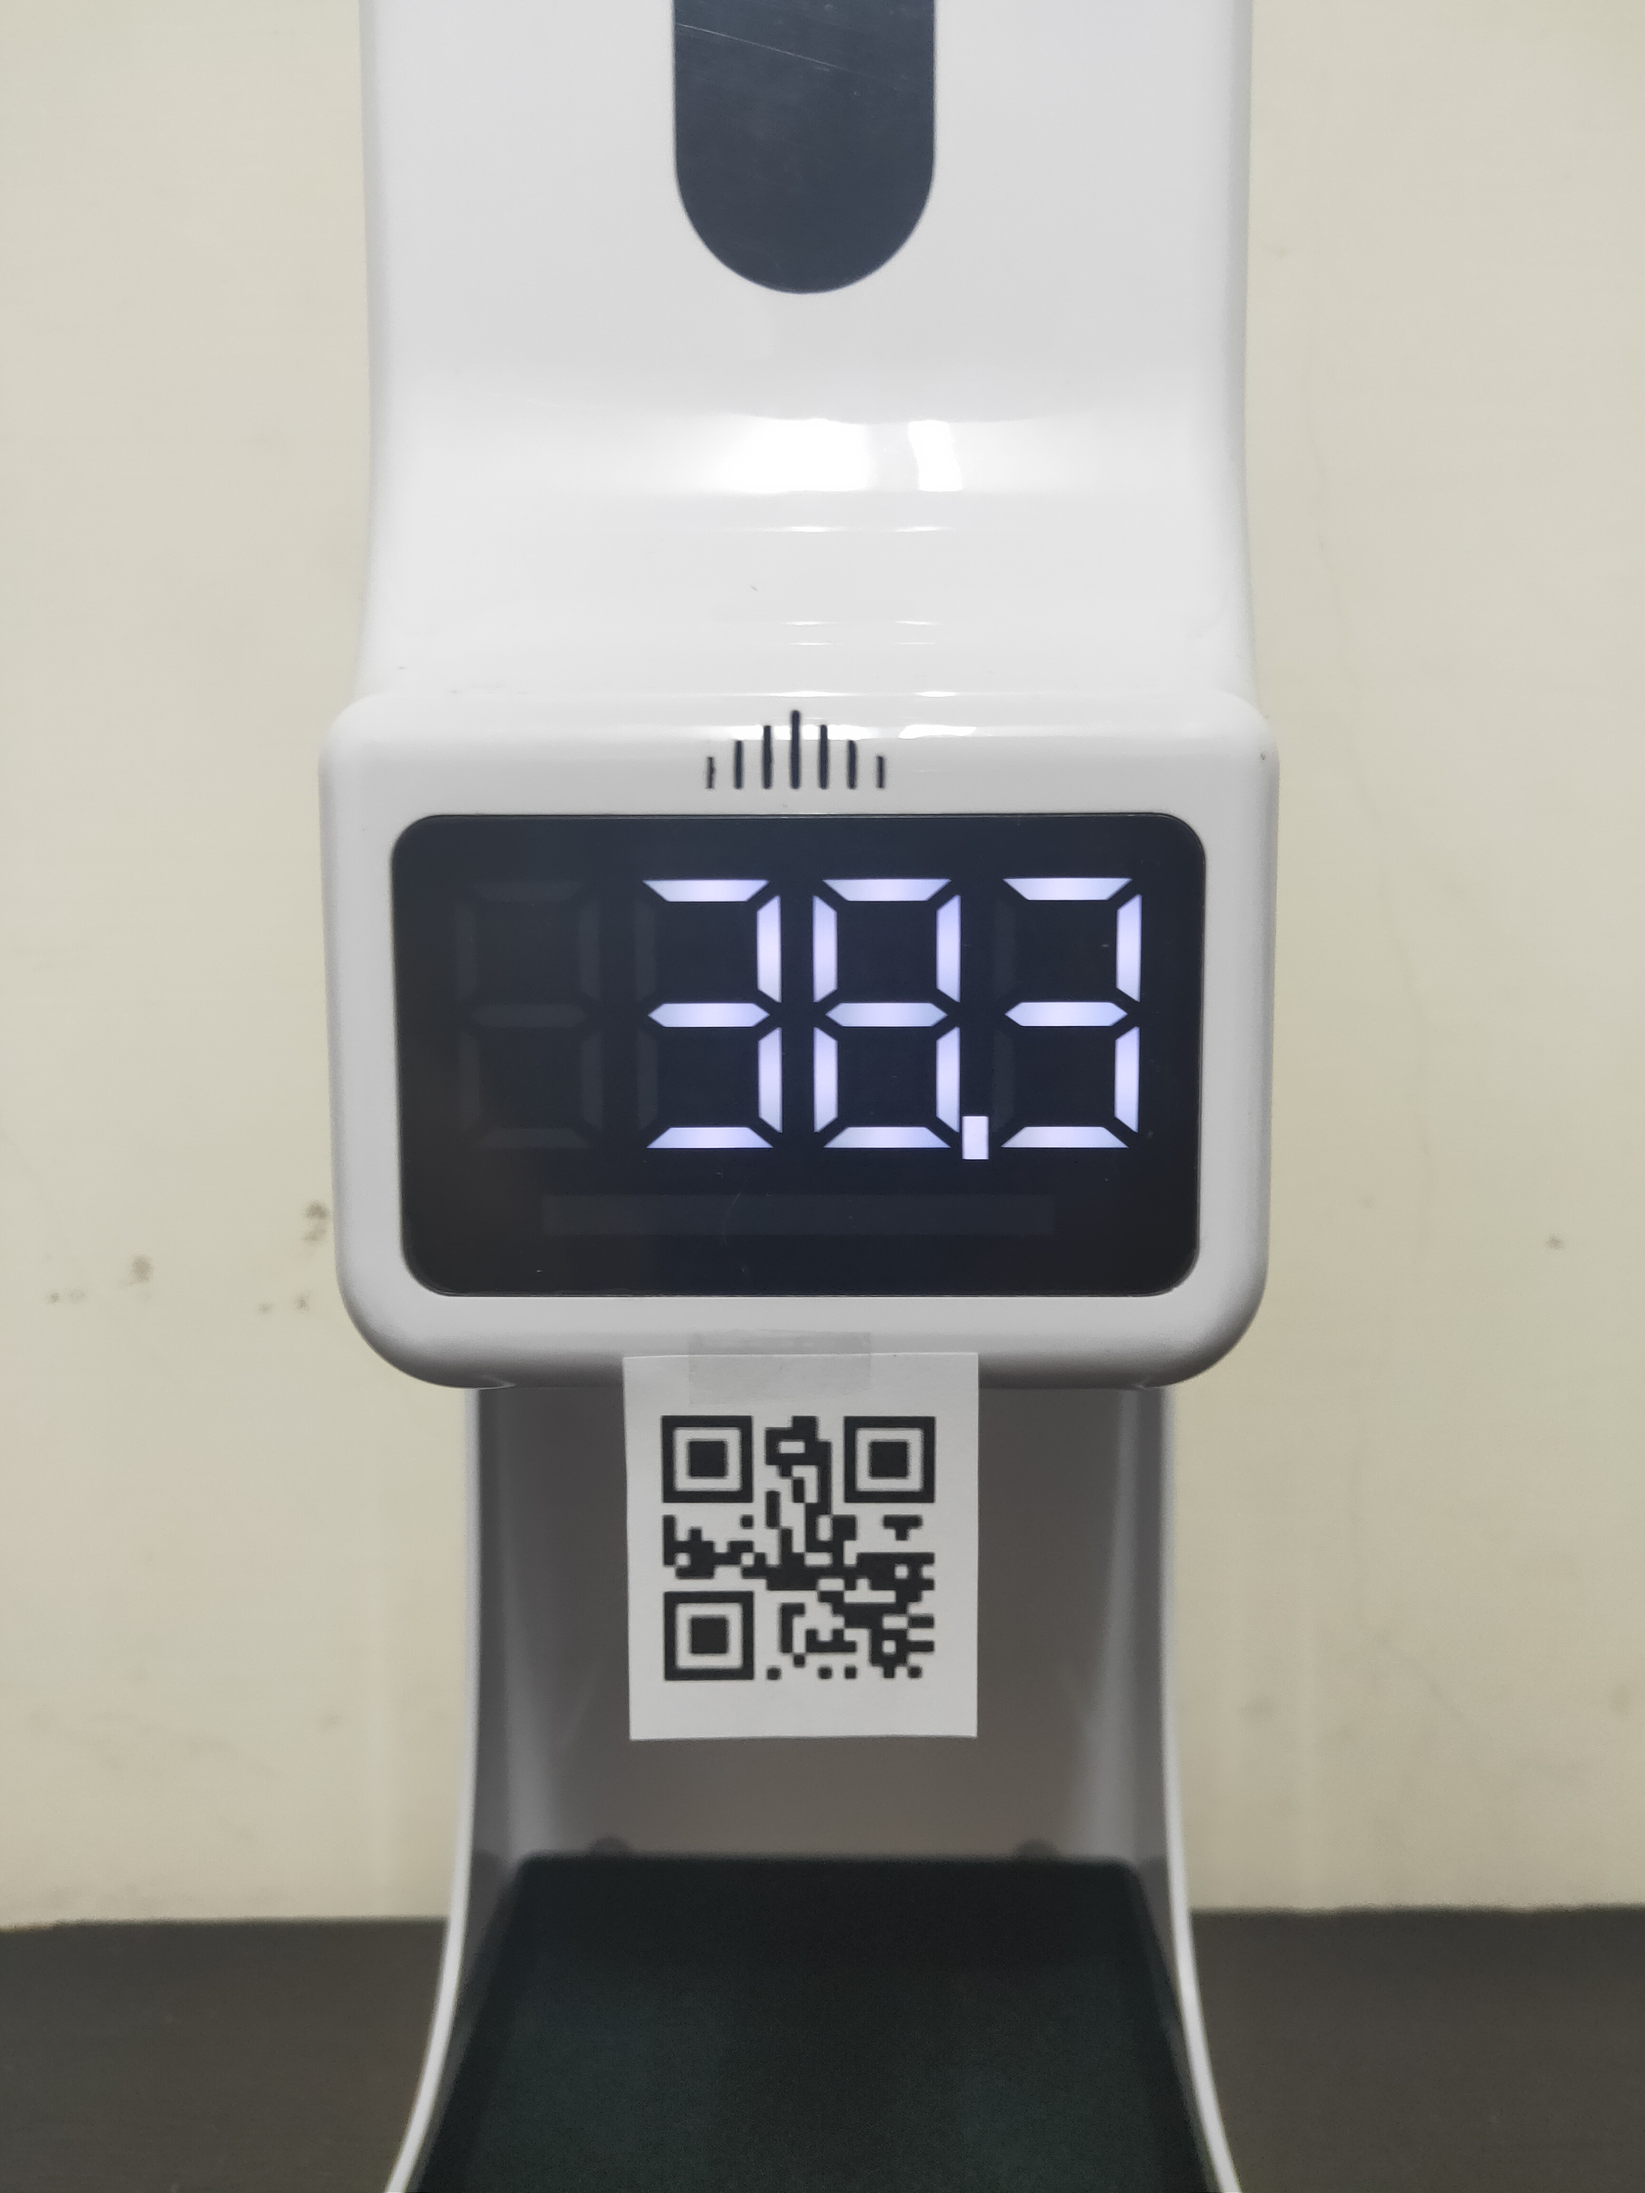
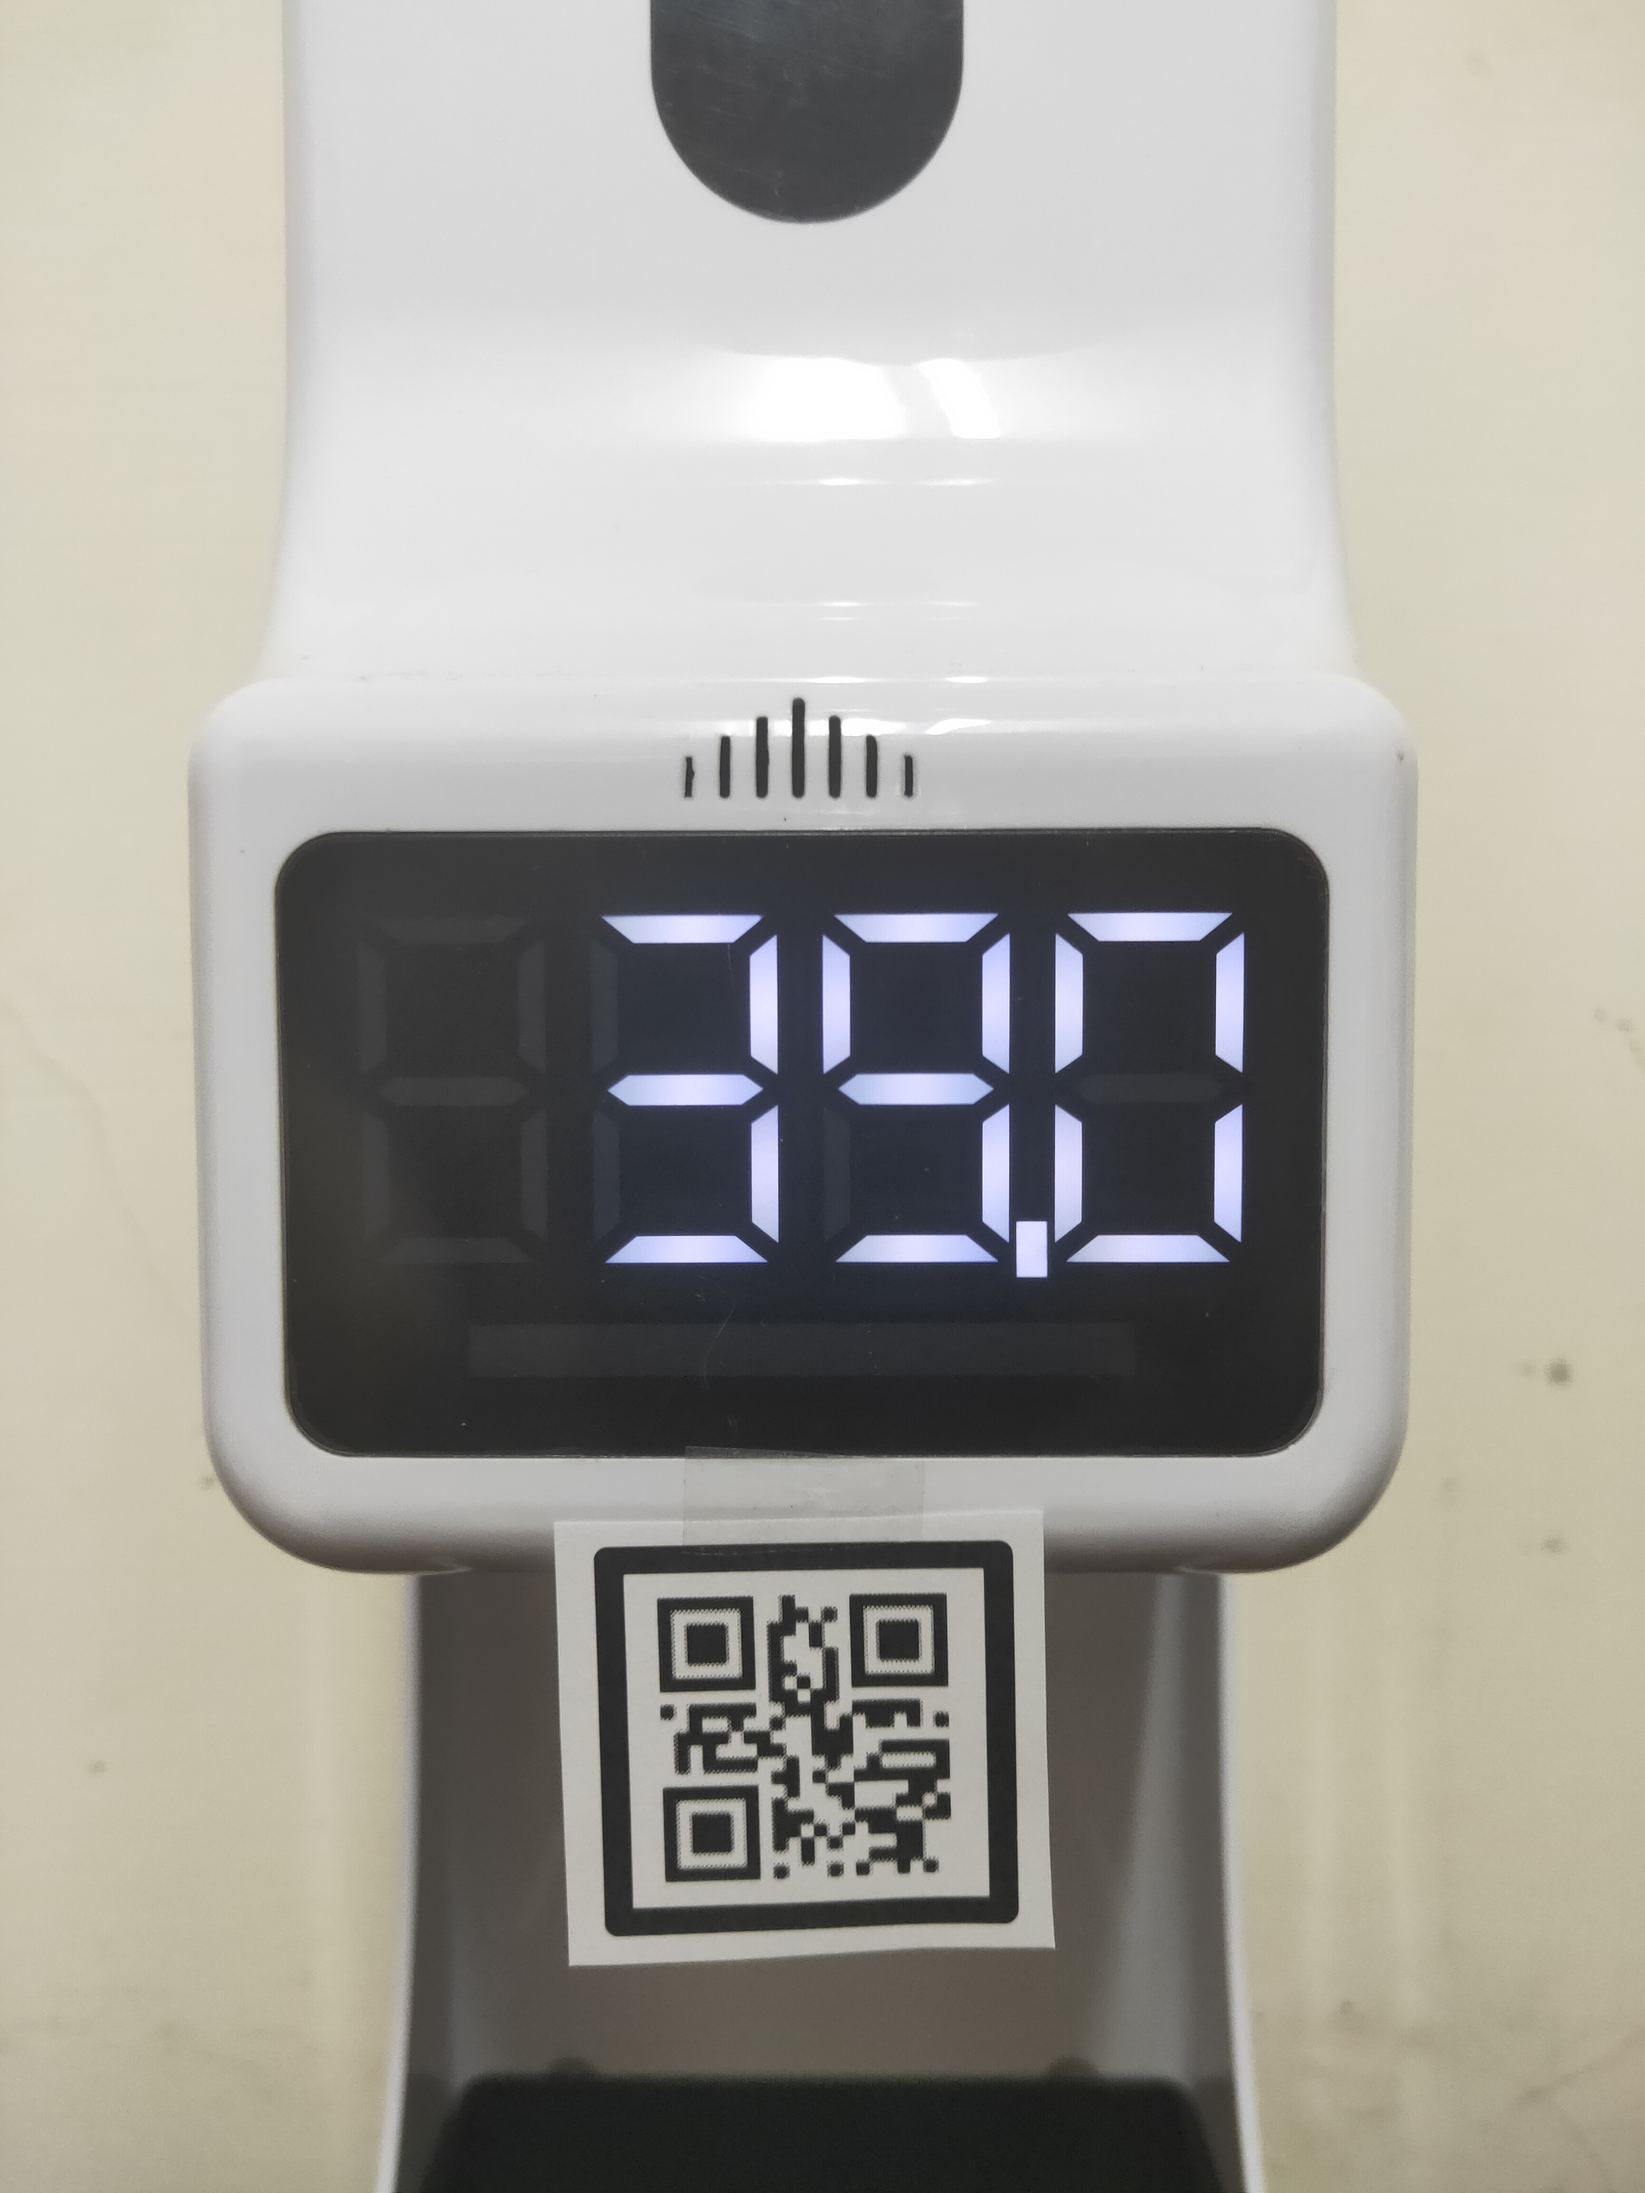
feat get temp qrcode

diff --git a/tempLogic.py b/tempLogic.py
@@ -13,52 +13,38 @@ def getQrcodeImg(image):
     # cv2.imshow('image', image)
     # resize 500
     image = imutils.resize(image, height=500)
-    height = image.shape[0]
-    image = image[int(height/2):-1, :]
-
-    cv2.imshow('1', image)
+    # height = image.shape[0]
+    # image = image[int(height/2):-1, :]
 
     # 灰階
     gray = cv2.cvtColor(image, cv2.COLOR_BGR2GRAY)
 
-    cv2.imshow('2', gray)
-
     # 邊緣檢測
     edged = cv2.Canny(cv2.threshold(gray, 50, 255, cv2.THRESH_BINARY)[1], 50, 200, 255)
-    cv2.imshow('3', edged)
-    cv2.imshow('4', cv2.threshold(gray, 50, 255, cv2.THRESH_BINARY)[1])
+   
     # 在邊緣檢測map中取得輪廓
     cnts = cv2.findContours(edged.copy(), cv2.RETR_EXTERNAL, cv2.CHAIN_APPROX_SIMPLE)
     cnts = imutils.grab_contours(cnts)
     # 依大小排序輪廓
     cnts = sorted(cnts, key=cv2.contourArea, reverse=False)
     displayCnt = None
-    print(len(cnts))
+
     # 讀取所有輪廓
-    i = 99
     for c in cnts:
         # 對輪廓進行相似比對
         peri = cv2.arcLength(c, True)
         approx = cv2.approxPolyDP(c, 0.02 * peri, True)
         weight = cv2.boundingRect(c)[2]
         hight = cv2.boundingRect(c)[2]
-        x = cv2.boundingRect(c)[0]
-
         # 找出有四個頂點的輪廓
-        # if len(approx) == 4 and weight*hight > 500:
-        #     displayCnt = approx
-        displayCnt = approx
-        print(f'{str(i)} {cv2.boundingRect(c)}')
-        try:
-            cv2.imshow(f'{str(i)}pic', four_point_transform(gray, displayCnt.reshape(4, 2)))
-        except:
-            print(f'{str(i)} fail')
+        if len(approx) == 4 and weight*hight > 500:
+            displayCnt = approx
        
     
     # 把圖切出來
-    # warped = four_point_transform(gray, displayCnt.reshape(4, 2))
+    warped = four_point_transform(gray, displayCnt.reshape(4, 2))
 
     # data= warped.reshape(1, warped.shape[0] * warped.shape[1])[0]
     # mean = sum(data)/len(data)
 
-    return edged
+    return warped

diff --git a/temp.py b/temp.py
@@ -9,9 +9,16 @@ from dbService import selectDevice
 import json
 from tempLogic import getQrcodeImg
 
-test = 19
+test = 11
 image = cv2.imread(f"img2/{str(test)}.jpg")
-print(f'\n')
-qrcodeImg = getQrcodeImg(image)
-cv2.imshow('qrcodeImg', qrcodeImg)
+# print(f'\n')
+# qrcodeImg = getQrcodeImg(image)
+# qrcodeData = decode(qrcodeImg)[0].data
+# qrcodeDataJson = json.loads((str(qrcodeData)).split("b\'")[1].split("\'")[0])
+# deviceId = qrcodeDataJson['deviceId']
+# print('-------設備 QRCode 識別結果------')
+# print(f'QRCode 資料: {qrcodeDataJson}')
+# print(f'\n')
+
+
 cv2.waitKey(0)
